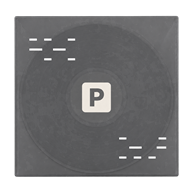
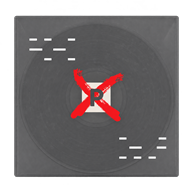
Use red brush cross artwork for other requests

Changed region(s): [[0.0625, 0.0625, 0.875, 0.9375], [0.3438, 0.3438, 0.6562, 0.6562], [0.1875, 0.0938, 0.9375, 0.9375]]

diff --git a/request/index.html b/request/index.html
@@ -89,7 +89,7 @@
     <span class="slot-overview-end"><span class="slot-overview-status">リクエスト</span><span class="slot-overview-chevron" aria-hidden="true"></span></span>
   </button>
   <button class="slot-overview-row is-empty" id="open-current-other" type="button" aria-controls="other-detail">
-    <img class="slot-overview-art" src="./other-smoke.png" alt="" width="76" height="76">
+    <img class="slot-overview-art" src="./other-smoke.png?v=brush-cross" alt="" width="76" height="76">
   <span class="slot-overview-info"><strong>それ以外の歌まね</strong><span class="slot-overview-song" hidden></span></span>
     <span class="slot-overview-end"><span class="slot-overview-status">リクエスト</span><span class="slot-overview-chevron" aria-hidden="true"></span></span>
   </button>
@@ -107,7 +107,7 @@
     <span class="slot-overview-end"><span class="slot-overview-status">予約する</span><span class="slot-overview-chevron" aria-hidden="true"></span></span>
   </button>
   <button class="slot-overview-row is-empty" id="open-next-other" type="button" aria-controls="reserve-other-detail">
-    <img class="slot-overview-art" src="./other-smoke.png" alt="" width="76" height="76">
+    <img class="slot-overview-art" src="./other-smoke.png?v=brush-cross" alt="" width="76" height="76">
   <span class="slot-overview-info"><strong>それ以外の歌まね</strong><span class="slot-overview-song" hidden></span></span>
     <span class="slot-overview-end"><span class="slot-overview-status">予約する</span><span class="slot-overview-chevron" aria-hidden="true"></span></span>
   </button>
